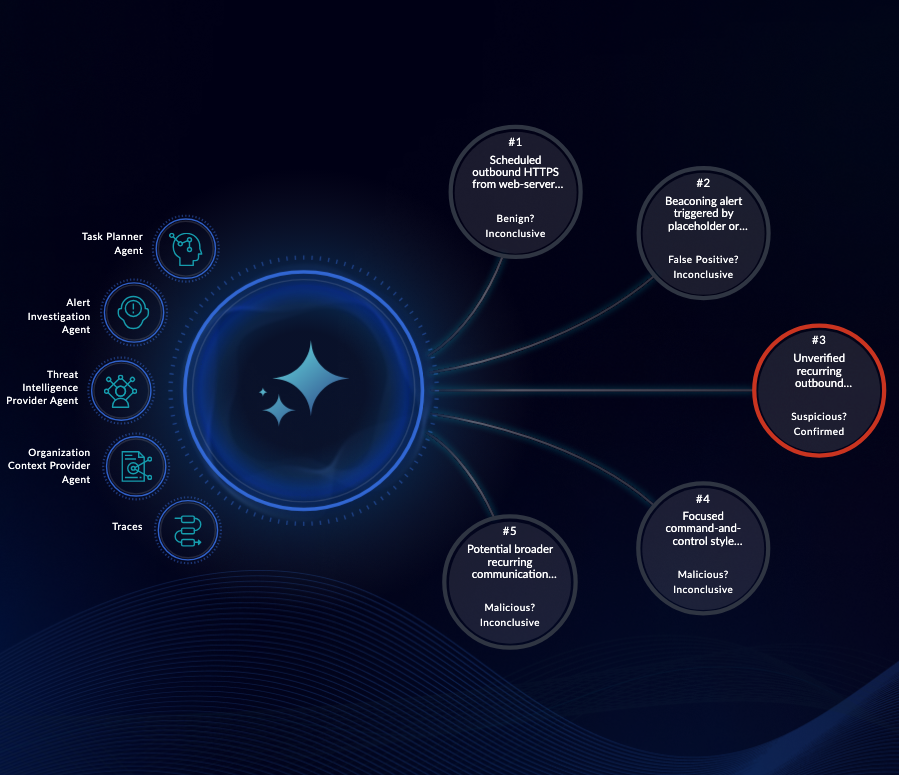
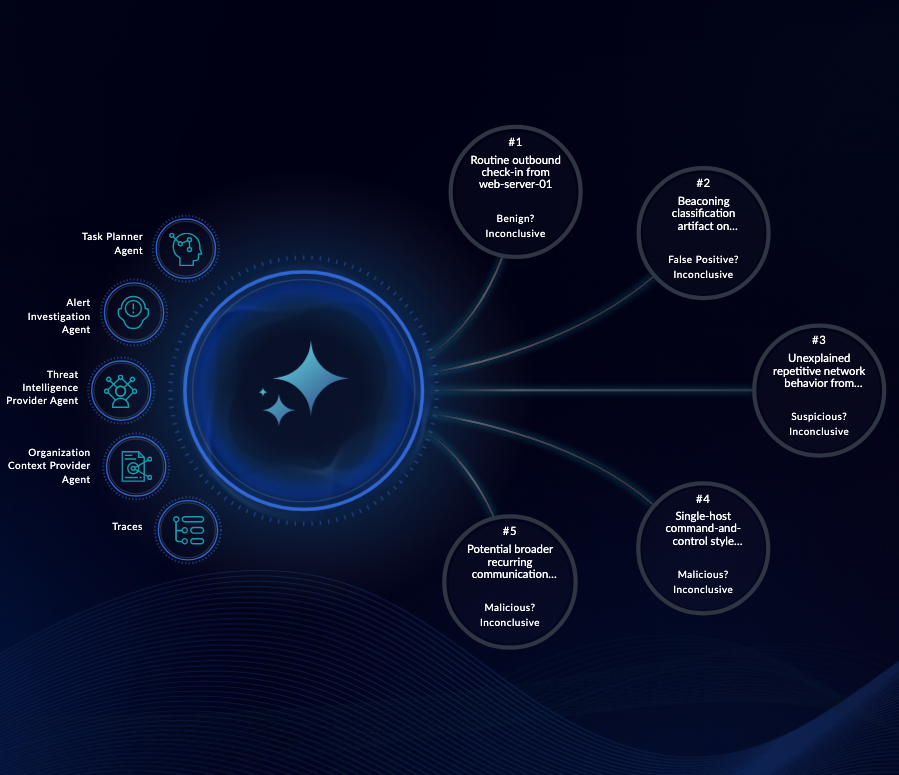
ch03/ch06: fix investigation-wait and IAM Users route; refresh captures
ch03: when the investigation is already in flight (running, no verdict yet),
wait it out via waitForInvestigation instead of asserting immediately; only
start a new run when it is not-run. Refresh the investigation captures.

ch06: reach the Users list via the main.iam.people ui-router state (a hard
goto to a bare path renders only the app chrome), and mask the user email
column. Refresh the create-user capture.

diff --git a/docubot/06-setup-agent/chapter.spec.ts b/docubot/06-setup-agent/chapter.spec.ts
@@ -13,7 +13,7 @@
 //
 // Verify on a box with `docubot run --chapter 06-setup-agent`, and the agent shots with
 // DOCUBOT_AGENT_SHOTS=1 AGENT_SHOTS_STUB=... FSR_PYTHON=<python with the toolkit>.
-import { expect, test, type AgentShotRun } from 'docubot';
+import { expect, goToState, test, type AgentShotRun } from 'docubot';
 import { promptFor, shouldRunStep, uiMask } from '../lib/agentlab';
 
 test.describe.configure({ mode: 'serial' });
@@ -33,14 +33,17 @@ test('chapter 6 - set up the agent', async ({ gui, capture }) => {
   test.setTimeout(15 * 60 * 1000);
 
   // --- SOAR page: the Users list, where the agent's login is created (System > IAM
-  // > Users). NB: /users is the correct route; the old fsa06-01-api-key-page shot
-  // captured the Access Keys page, which the "Create a Login" prose never describes. ---
+  // > People). The list is the ui-router state main.iam.people (URL /iam/people);
+  // a hard goto to a bare path bootstraps only the app chrome, so navigate in-app. ---
   if (shouldRunStep('fsa06-01-create-user')) await test.step('fsa06-01-create-user', async () => {
     const soar = await gui('soar');
-    const origin = new URL(soar.url()).origin;
-    await soar.goto(`${origin}/users`, { waitUntil: 'domcontentloaded' });
-    await expect(soar.getByText(/Users/i).first()).toBeVisible({ timeout: 30_000 });
-    await capture.shot(soar, 'fsa06-01-create-user', { mask: uiMask(soar) });
+    await goToState(soar, 'main.iam.people');
+    // Anchor on a VISIBLE People/Users element: a bare text match hits a hidden
+    // nav <li> and never becomes visible.
+    await expect(soar.getByText(/People|Users/i).filter({ visible: true }).first()).toBeVisible({ timeout: 30_000 });
+    // The People grid lists user email addresses; mask them for public-repo hygiene.
+    const emailMask = soar.getByText(/[A-Za-z0-9._%+-]+@[A-Za-z0-9.-]+\.[A-Za-z]{2,}/);
+    await capture.shot(soar, 'fsa06-01-create-user', { mask: [...uiMask(soar), emailMask] });
   });
 
   // --- TUI pages: the write-approval prompt in each agent (real screenshots). ---

diff --git a/docubot/03-investigation-insights/chapter.spec.ts b/docubot/03-investigation-insights/chapter.spec.ts
@@ -8,7 +8,7 @@
 //
 // Migrated from tools/e2e/captures/ch03.spec.js. Verify on a box with
 // `docubot run --chapter 03-investigation-insights`.
-import { expect, fieldAfterLabel, findAlert, goToModuleList, openRecord, readInvestigation, runInvestigation, selectDetailTab, test } from 'docubot';
+import { expect, fieldAfterLabel, findAlert, goToModuleList, openRecord, readInvestigation, runInvestigation, selectDetailTab, test, waitForInvestigation } from 'docubot';
 import { labSeed, shouldRunStep, uiMask } from '../lib/agentlab';
 
 test.describe.configure({ mode: 'serial' });
@@ -40,12 +40,16 @@ test('chapter 3 - investigation', async ({ gui, capture }) => {
 
   // The one paid run for the chapter. Every capture below reuses its result.
   let inv = await readInvestigation(soar);
-  if (inv.state === 'not-run') {
+  if (inv.state !== 'done') {
     if (!SPEND) {
-      console.log('[ch03] no finished investigation on the lab alert; set SPEND_AI=1 to run one');
-      test.skip(true, 'investigation not run and SPEND_AI is not set');
+      console.log(`[ch03] investigation is "${inv.state}" on the lab alert; set SPEND_AI=1 to run/finish one`);
+      test.skip(true, 'no finished investigation and SPEND_AI is not set');
     }
-    inv = await runInvestigation(soar, { wait: true });
+    // not-run: start it and wait. running: a prior session's run is still
+    // in flight (no Begin button, no verdict yet) - just wait it out.
+    inv = inv.state === 'not-run'
+      ? await runInvestigation(soar, { wait: true })
+      : await waitForInvestigation(soar);
   }
   expect(inv.state, 'the investigation must reach a verdict before it is captured').toBe('done');
   expect(inv.hypotheses.length, 'a finished investigation lists hypotheses').toBeGreaterThan(0);
